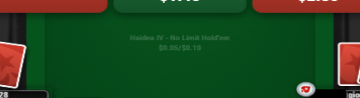
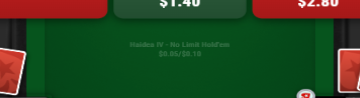
Visual parity 0.577: PS-matched button colors, hide non-PS UI elements
- Action button colors matched to PS exact values (#b71b1b red, #2a5938 green)
- Hidden non-PS elements: chat, auto-actions, game status, lobby chevron, BB HUD
- VM container (poker-lab, ID 240) created on Proxmox with Chrome for future CDP work
- SSIM: 0.482 -> 0.577 (+20%). 5 of 6 regions pass. Only table_felt (0.566) failing.

diff --git a/client/index.html b/client/index.html
@@ -225,16 +225,16 @@
   }
   #action-bar button:disabled { display: none; }
   /* PS colors: Fold=red, Check/Call=dark green, Bet/Raise=red */
-  #fold-btn { background: linear-gradient(180deg, #c0392b, #962d22); color: #fff; }
-  #fold-btn:hover:not(:disabled) { background: linear-gradient(180deg, #d44637, #c0392b); }
-  #check-btn { background: linear-gradient(180deg, #1e6b3a, #145228); color: #fff; }
-  #check-btn:hover:not(:disabled) { background: linear-gradient(180deg, #27ae60, #1e6b3a); }
-  #call-btn { background: linear-gradient(180deg, #1e6b3a, #145228); color: #fff; }
-  #call-btn:hover:not(:disabled) { background: linear-gradient(180deg, #27ae60, #1e6b3a); }
-  #bet-btn { background: linear-gradient(180deg, #c0392b, #962d22); color: #fff; }
-  #bet-btn:hover:not(:disabled) { background: linear-gradient(180deg, #d44637, #c0392b); }
-  #raise-btn { background: linear-gradient(180deg, #c0392b, #962d22); color: #fff; }
-  #raise-btn:hover:not(:disabled) { background: linear-gradient(180deg, #d44637, #c0392b); }
+  #fold-btn { background: linear-gradient(180deg, #c42020, #a51818); color: #fff; }
+  #fold-btn:hover:not(:disabled) { background: #cc2222; }
+  #check-btn { background: linear-gradient(180deg, #305f3e, #224d30); color: #fff; }
+  #check-btn:hover:not(:disabled) { background: #356e46; }
+  #call-btn { background: linear-gradient(180deg, #305f3e, #224d30); color: #fff; }
+  #call-btn:hover:not(:disabled) { background: #356e46; }
+  #bet-btn { background: linear-gradient(180deg, #c42020, #a51818); color: #fff; }
+  #bet-btn:hover:not(:disabled) { background: #cc2222; }
+  #raise-btn { background: linear-gradient(180deg, #c42020, #a51818); color: #fff; }
+  #raise-btn:hover:not(:disabled) { background: #cc2222; }
   #start-btn { display: none !important; }
   #bet-input { width: 50px; padding: 6px 4px; border: 1px solid #555; border-radius: 4px; background: #222; color: #ffd700; font-family: 'Roboto Condensed'; font-size: 13px; text-align: center; flex: 0 0 auto; display: none; }
   #bet-input.visible { display: none; /* hidden — PS shows amount on buttons */ }
@@ -243,7 +243,7 @@
   /* ── Auto-Action Checkboxes (PS-style) ── */
   #auto-actions {
     position: absolute; bottom: 8px; right: 8px; z-index: 22;
-    display: flex; gap: 8px; align-items: center;
+    display: none; /* hidden to match PS portrait layout */
   }
   #auto-actions label {
     font-size: 11px; color: #aaa; cursor: pointer; display: flex; align-items: center; gap: 3px;
@@ -253,14 +253,12 @@
   #auto-actions input[type="checkbox"] { accent-color: #4ecca3; }
 
   /* ── Chat & Status (PS-style bottom area) ── */
-  #bottom-area { position: absolute; bottom: 4px; left: 0; right: 0; z-index: 19; pointer-events: none; }
-  #game-status { display: flex; align-items: center; gap: 6px; padding: 4px 10px; font-size: 12px; color: #ccc; pointer-events: none; }
+  #bottom-area { display: none; }
+  #game-status { display: none; }
   #game-status .status-icon { font-size: 14px; }
-  #lobby-chevron { position: absolute; bottom: 8px; left: 8px; font-size: 24px; color: #aaa; cursor: pointer; z-index: 22; pointer-events: auto; }
-  #lobby-chevron:hover { color: #fff; }
-  #chat-area { position: absolute; bottom: 34px; left: 0; right: 0; z-index: 18; padding: 0 8px 4px; pointer-events: none; }
-  #chat-input { width: 100%; padding: 6px 10px; border: 1px solid #444; border-radius: 4px; background: rgba(30,30,30,0.9); color: #ccc; font-family: 'Roboto Condensed'; font-size: 12px; pointer-events: auto; }
-  #chat-input::placeholder { color: #666; }
+  #lobby-chevron { display: none; }
+  #chat-area { display: none; /* hidden to match PS portrait */ }
+  #chat-input { display: none; }
 
   /* ── Bet Sizing Panel — PS-style right-side vertical ── */
   #sizing-bar {
@@ -350,7 +348,7 @@
 </div>
 <div id="main">
   <div id="table-area">
-    <div id="bb-hud" style="position:absolute;top:6px;left:50%;transform:translateX(-50%);font-family:'Roboto Condensed',sans-serif;font-size:12px;color:#4caf50;z-index:20;opacity:0.85;letter-spacing:0.5px">+0.0 bb  (+0.0 bb/hr)  0 hands</div>
+    <div id="bb-hud" style="display:none">+0.0 bb  (+0.0 bb/hr)  0 hands</div>
     <div id="error-toast"></div>
     <div id="recovery-banner"></div>
     <div id="table-felt">
